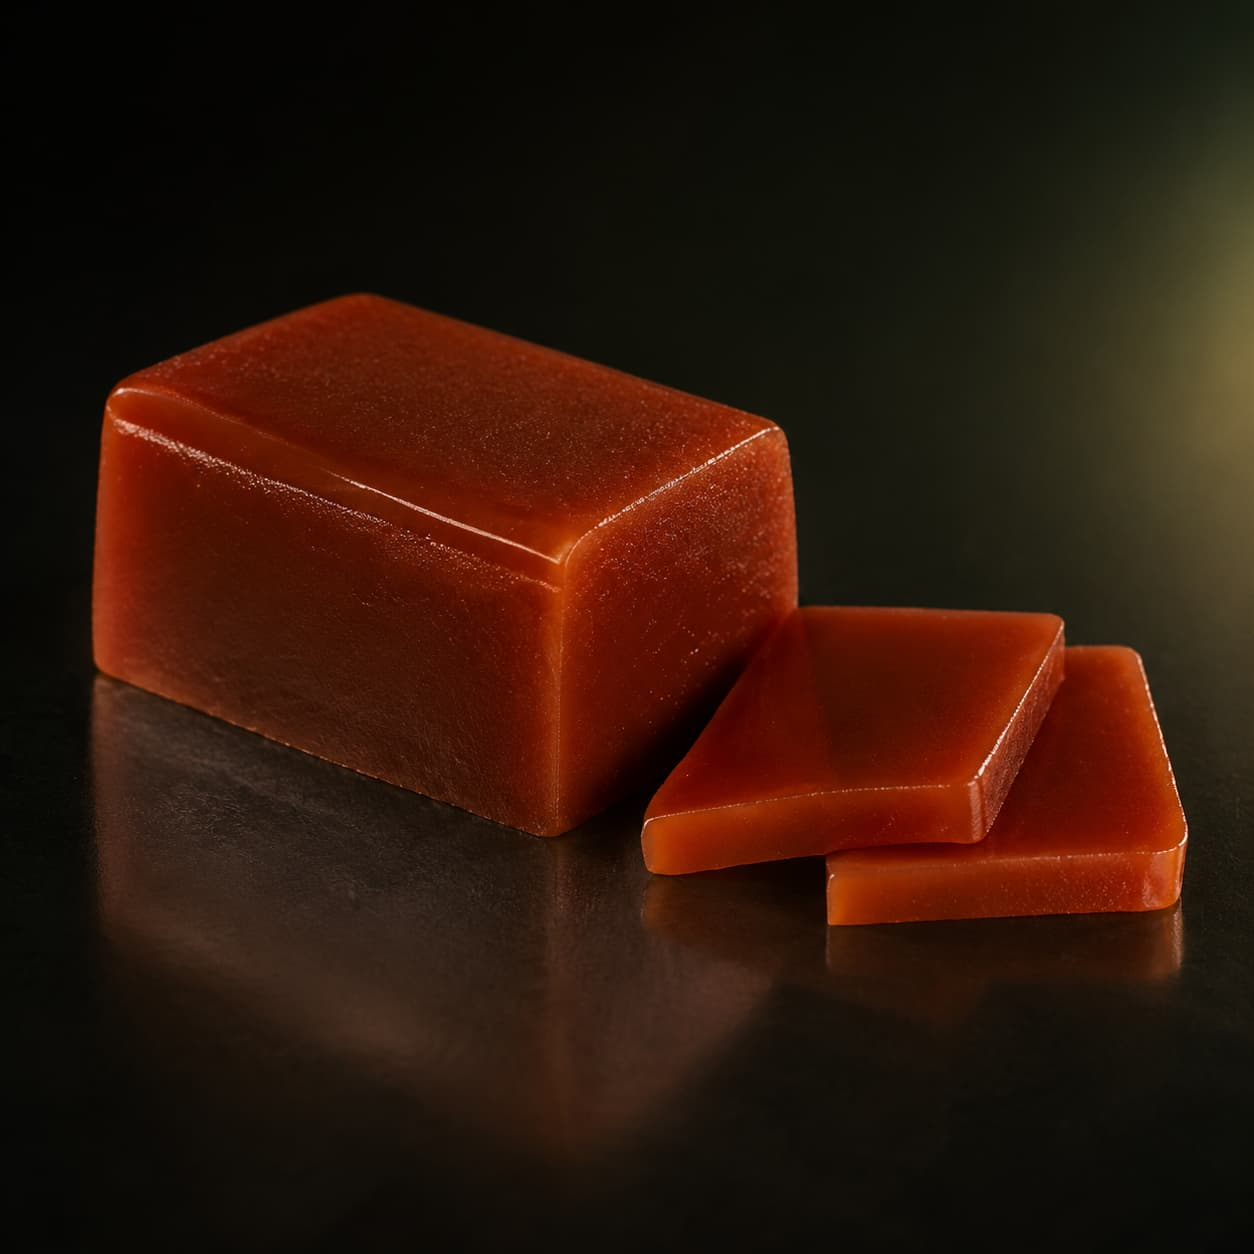
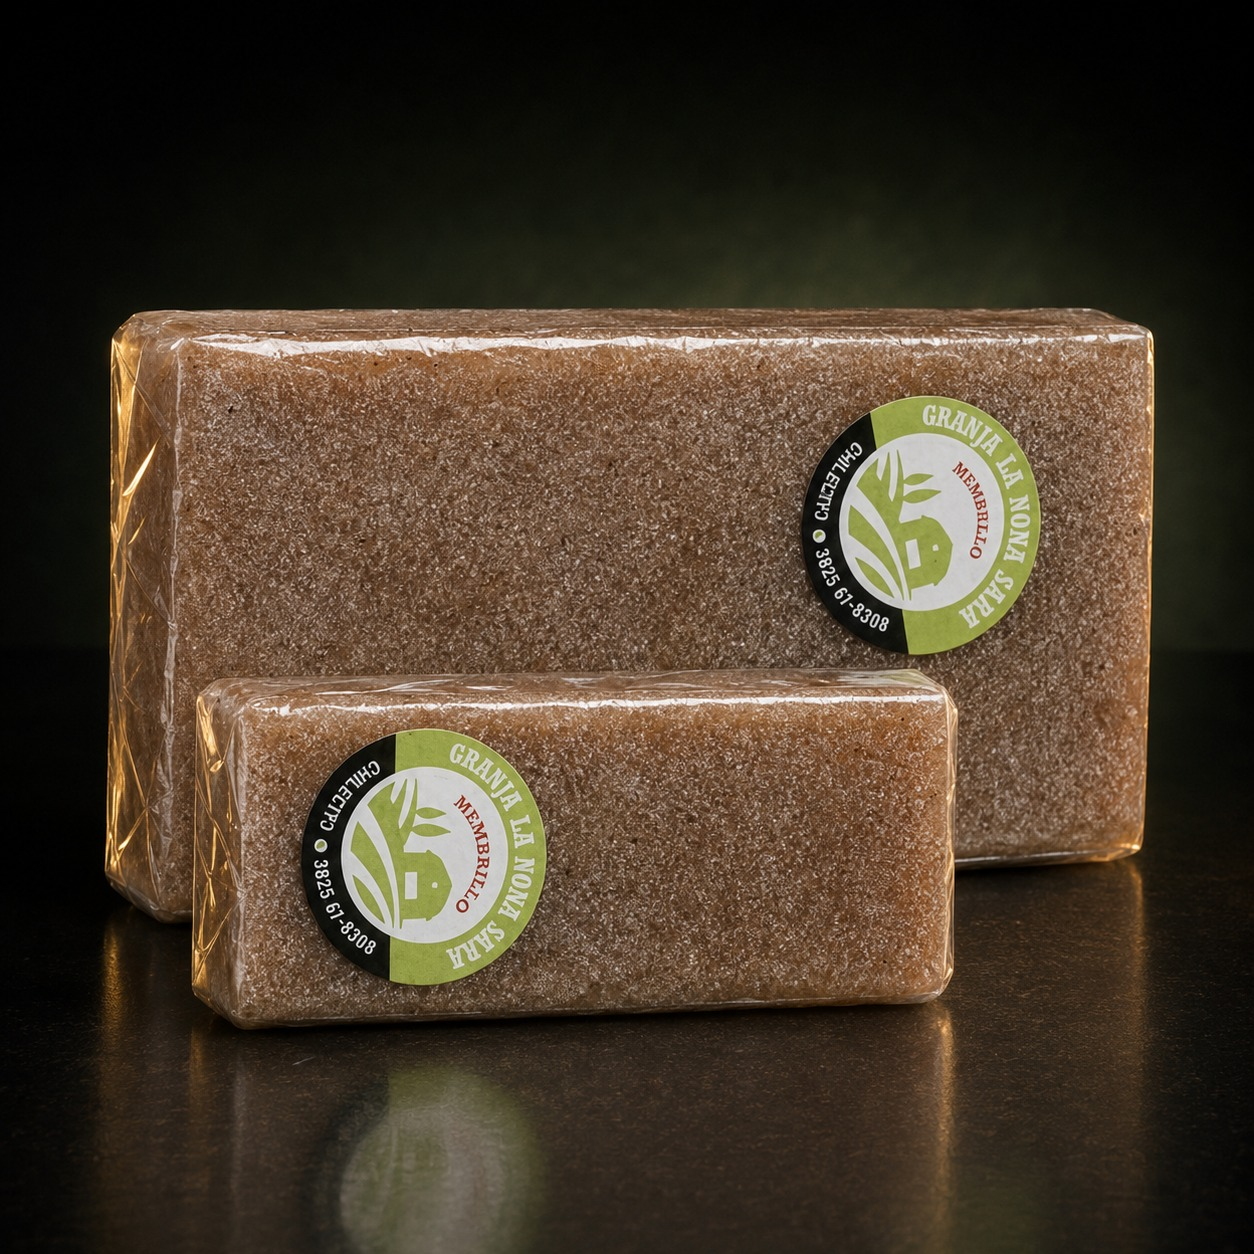
Add files via upload

diff --git a/index.html b/index.html
@@ -40,7 +40,19 @@
         .grid { display: grid; grid-template-columns: repeat(auto-fit, minmax(300px, 1fr)); gap: 40px; padding: 40px; max-width: 1200px; margin: auto; }
         .card { border: 1px solid var(--oro); background: var(--fondo-card); padding: 20px; text-align: center; border-radius: 4px; transition: 0.3s; }
         .card:hover { transform: translateY(-5px); border-color: #F5F5DC; }
-        .card img { width: 100%; height: 280px; object-fit: cover; border: 1px solid var(--oro); margin-bottom: 20px; }
+        .card img { width: 100%; height: 280px; object-fit: contain; background: #111; border: 1px solid var(--oro); margin-bottom: 20px; }
+        .campo-producto { text-align: left; margin: 12px 0; font-family: Arial, sans-serif; color: #F5F5DC; }
+        .campo-producto label { display: block; margin-bottom: 6px; color: var(--oro); font-weight: bold; font-size: 0.92em; }
+        .selector-variante,
+        .input-cantidad { width: 100%; padding: 10px; border: 1px solid var(--oro); border-radius: 4px; background: #111; color: #F5F5DC; font-size: 1rem; }
+        .cantidad-linea { display: flex; align-items: center; justify-content: center; gap: 10px; margin: 14px 0; font-family: Arial, sans-serif; color: var(--oro); font-weight: bold; }
+        .cantidad-control { display: inline-flex; align-items: center; border: 1px solid var(--oro); border-radius: 999px; overflow: hidden; background: #111; box-shadow: inset 0 0 0 1px rgba(197,160,89,0.12); }
+        .btn-cantidad { width: 34px; height: 34px; margin: 0; padding: 0; border: 0; border-radius: 0; background: #2D4837; color: var(--oro); font-size: 1.25rem; font-weight: bold; line-height: 1; cursor: pointer; }
+        .btn-cantidad:hover { background: var(--oro); color: #111; }
+        .input-cantidad { width: 42px; height: 34px; padding: 0; text-align: center; border: 0; border-left: 1px solid rgba(197,160,89,0.55); border-right: 1px solid rgba(197,160,89,0.55); border-radius: 0; background: #111; color: #F5F5DC; font-weight: bold; -moz-appearance: textfield; }
+        .input-cantidad::-webkit-outer-spin-button,
+        .input-cantidad::-webkit-inner-spin-button { -webkit-appearance: none; margin: 0; }
+        .precio-card { min-height: 32px; }
 
         .carrito { position: fixed; top: 12px; right: 12px; background: var(--oro); color: black; padding: 11px; border-radius: 8px; width: 240px; max-height: 68vh; overflow-y: auto; z-index: 1000; box-shadow: 0 4px 15px rgba(0,0,0,0.5); }
         .carrito h3 { margin: 2px 0 9px; font-size: 1.05em; }
@@ -56,7 +68,12 @@
         button { background: var(--verde); color: white; border: 1px solid #fff; padding: 10px; cursor: pointer; width: 100%; margin-top: 10px; }
         h2 { color: var(--oro); text-align: center; margin-top: 60px; }
         .desc-cat { text-align: center; color: #ccc; font-style: italic; margin-bottom: 20px; max-width: 800px; margin-left: auto; margin-right: auto; padding: 0 18px; }
-        .imagen-categoria { width: 100%; max-width: 800px; display: block; margin: auto; margin-bottom: 30px; border: 1px solid var(--oro); }
+        .categoria-bloque { margin: 58px 0 35px; border-top: 4px solid var(--oro); border-bottom: 4px solid var(--oro); background: #111; }
+        .categoria-titulo { padding: 22px 20px 18px; text-align: center; background: linear-gradient(180deg, #242018, #111); border-bottom: 1px solid rgba(197,160,89,0.65); }
+        .categoria-titulo h2 { margin: 0; color: var(--oro); font-size: 2.7em; text-transform: uppercase; letter-spacing: 2px; text-shadow: 2px 2px 8px rgba(0,0,0,0.9); }
+        .categoria-titulo .desc-cat { margin: 9px auto 0; color: #F5F5DC; text-shadow: none; }
+        .categoria-banner { width: 100%; height: clamp(260px, 28vw, 360px); background: #111; overflow: hidden; }
+        .categoria-banner img { display: block; width: 100%; height: 100%; object-fit: cover; object-position: center; margin: 0 auto; }
         footer { padding: 40px; text-align: center; border-top: 1px solid #444; background: #111; color: #ccc; }
         footer a { color: var(--oro); text-decoration: none; font-weight: bold; }
 
@@ -83,6 +100,11 @@
             .btn-modo { padding: 8px 10px; font-size: 0.78em; }
             .carrito { width: 210px; top: 8px; right: 8px; max-height: 55vh; }
             .grid { grid-template-columns: 1fr; padding: 25px 16px; gap: 25px; }
+            .categoria-bloque { margin: 42px 0 22px; }
+            .categoria-titulo { padding: 22px 14px 18px; }
+            .categoria-titulo h2 { font-size: 2em; }
+            .categoria-banner { height: 210px; }
+            .cantidad-linea { gap: 8px; }
         }
     </style>
 </head>
@@ -133,6 +155,7 @@
         const DESCUENTO_REVENDEDOR = 15;
         const AJUSTE_INFLACION = 0;
         const REDONDEO = 100;
+        const CATEGORIAS_SIN_AGRUPAR = ['Aceites'];
 
         const DATOS_CATEGORIA = {
             'Aceites': {
@@ -234,14 +257,21 @@
         }
 
         function renderizarCatalogo(productos) {
-            productosCatalogo = productos.map(producto => {
+            const filas = productos.map(producto => {
                 const precioBase = precioANumero(producto.Precio);
                 const precioRevendedor = calcularPrecioRevendedor(precioBase);
+                const noAgrupar = CATEGORIAS_SIN_AGRUPAR.includes(producto.Categoria) && !producto.Grupo;
+                const grupo = producto.Grupo || producto.Producto;
+                const claveGrupo = noAgrupar ? producto.Producto + ' · ' + producto.Presentacion : grupo;
+                const tituloTarjeta = noAgrupar ? producto.Producto : grupo;
 
                 return {
                     categoria: producto.Categoria,
+                    grupo: grupo,
+                    claveGrupo: claveGrupo,
+                    tituloTarjeta: tituloTarjeta,
                     producto: producto.Producto,
-                    presentacion: producto.Presentacion,
+                    presentacion: producto.Presentacion || 'Única opción',
                     precioOriginalTxt: formatearPrecio(precioBase),
                     precioOriginalNum: precioBase,
                     precioRevendedorTxt: formatearPrecio(precioRevendedor),
@@ -249,6 +279,25 @@
                     imagen: producto.Imagen || 'img/placeholder.jpg'
                 };
             });
+
+            const mapaProductos = new Map();
+            filas.forEach(item => {
+                const clave = item.categoria + '||' + item.claveGrupo;
+                if (!mapaProductos.has(clave)) {
+                    mapaProductos.set(clave, {
+                        categoria: item.categoria,
+                        producto: item.tituloTarjeta,
+                        imagen: item.imagen,
+                        variantes: []
+                    });
+                }
+
+                const grupo = mapaProductos.get(clave);
+                if (!grupo.imagen || grupo.imagen === 'img/placeholder.jpg') grupo.imagen = item.imagen;
+                grupo.variantes.push(item);
+            });
+
+            productosCatalogo = Array.from(mapaProductos.values());
 
             const productosPorCategoria = productosCatalogo.reduce((grupos, item, indice) => {
                 if (!grupos[item.categoria]) grupos[item.categoria] = [];
@@ -259,29 +308,101 @@
             const html = Object.entries(productosPorCategoria).map(([categoria, items]) => {
                 const datos = DATOS_CATEGORIA[categoria] || { descripcion: '', imagen: '' };
                 const encabezado = `
-                    <h2>${escaparHtml(categoria)}</h2>
-                    ${datos.descripcion ? `<p class="desc-cat">${escaparHtml(datos.descripcion)}</p>` : ''}
-                    ${datos.imagen ? `<img class="imagen-categoria" src="${escaparHtml(datos.imagen)}" alt="${escaparHtml(categoria)}">` : ''}
+                    <section class="categoria-bloque">
+                        <div class="categoria-titulo">
+                            <h2>${escaparHtml(categoria)}</h2>
+                            ${datos.descripcion ? `<p class="desc-cat">${escaparHtml(datos.descripcion)}</p>` : ''}
+                        </div>
+                        <div class="categoria-banner">
+                            <img src="${escaparHtml(datos.imagen || 'img/banner.jpg')}" alt="${escaparHtml(categoria)}">
+                        </div>
+                    </section>
                 `;
 
-                const tarjetas = items.map(item => `
+                const tarjetas = items.map(item => {
+                    const primeraVariante = item.variantes[0];
+                    const opciones = item.variantes.map((variante, varianteIndice) => `
+                        <option value="${varianteIndice}">
+                            ${escaparHtml(variante.presentacion)} · ${escaparHtml(variante.precioOriginalTxt)}
+                        </option>
+                    `).join('');
+
+                    const selector = item.variantes.length > 1
+                        ? `<div class="campo-producto">
+                               <label for="variante-${item.indice}">Elegí presentación</label>
+                               <select class="selector-variante" id="variante-${item.indice}" data-card="${item.indice}">
+                                   ${opciones}
+                               </select>
+                           </div>`
+                        : `<p>${escaparHtml(primeraVariante.presentacion)}</p>`;
+
+                    return `
                     <div class="card">
                         <img src="${escaparHtml(item.imagen)}" alt="${escaparHtml(item.producto)}">
                         <h3>${escaparHtml(item.producto)}</h3>
-                        <p>${escaparHtml(item.presentacion)}</p>
-                        <p>
-                            <strong class="precio-normal">${escaparHtml(item.precioOriginalTxt)}</strong>
-                            <span class="precio-anterior">${escaparHtml(item.precioOriginalTxt)}</span>
-                            <strong class="precio-revendedor">${escaparHtml(item.precioRevendedorTxt)}</strong>
+                        ${selector}
+                        <p class="precio-card" data-precio-card="${item.indice}">
+                            <strong class="precio-normal">${escaparHtml(primeraVariante.precioOriginalTxt)}</strong>
+                            <span class="precio-anterior">${escaparHtml(primeraVariante.precioOriginalTxt)}</span>
+                            <strong class="precio-revendedor">${escaparHtml(primeraVariante.precioRevendedorTxt)}</strong>
                         </p>
+                        <div class="cantidad-linea">
+                            <span>Cantidad</span>
+                            <div class="cantidad-control" aria-label="Elegir cantidad">
+                                <button class="btn-cantidad" type="button" data-restar="${item.indice}" aria-label="Restar cantidad">−</button>
+                                <input class="input-cantidad" id="cantidad-${item.indice}" data-cantidad="${item.indice}" type="number" min="1" step="1" value="1" aria-label="Cantidad">
+                                <button class="btn-cantidad" type="button" data-sumar="${item.indice}" aria-label="Sumar cantidad">+</button>
+                            </div>
+                        </div>
                         <button type="button" data-agregar="${item.indice}">Agregar</button>
                     </div>
-                `).join('');
+                `;
+                }).join('');
 
                 return `${encabezado}<div class="grid">${tarjetas}</div>`;
             }).join('');
 
             document.getElementById('catalogo').innerHTML = html;
+            actualizarPreciosTarjetas();
+        }
+
+        function obtenerVarianteSeleccionada(indiceProducto) {
+            const producto = productosCatalogo[indiceProducto];
+            if (!producto) return null;
+
+            const selector = document.querySelector('[data-card="' + indiceProducto + '"]');
+            const indiceVariante = selector ? Number(selector.value) : 0;
+            return producto.variantes[indiceVariante] || producto.variantes[0];
+        }
+
+        function obtenerCantidad(indiceProducto) {
+            const input = document.querySelector('[data-cantidad="' + indiceProducto + '"]');
+            const cantidad = parseInt(input?.value, 10);
+            return Number.isFinite(cantidad) && cantidad > 0 ? cantidad : 1;
+        }
+
+        function cambiarCantidad(indiceProducto, cambio) {
+            const input = document.querySelector('[data-cantidad="' + indiceProducto + '"]');
+            if (!input) return;
+
+            const actual = obtenerCantidad(indiceProducto);
+            input.value = Math.max(1, actual + cambio);
+        }
+
+        function actualizarPrecioTarjeta(indiceProducto) {
+            const variante = obtenerVarianteSeleccionada(indiceProducto);
+            const contenedor = document.querySelector('[data-precio-card="' + indiceProducto + '"]');
+            if (!variante || !contenedor) return;
+
+            contenedor.innerHTML = `
+                <strong class="precio-normal">${escaparHtml(variante.precioOriginalTxt)}</strong>
+                <span class="precio-anterior">${escaparHtml(variante.precioOriginalTxt)}</span>
+                <strong class="precio-revendedor">${escaparHtml(variante.precioRevendedorTxt)}</strong>
+            `;
+        }
+
+        function actualizarPreciosTarjetas() {
+            productosCatalogo.forEach((_, indice) => actualizarPrecioTarjeta(indice));
         }
 
         async function cargarCatalogo() {
@@ -329,6 +450,7 @@
             document.body.classList.add('modo-revendedor');
             document.getElementById('titulo-carrito').textContent = 'Pedido revendedor';
             carrito = [];
+            actualizarPreciosTarjetas();
             actualizar();
             ocultarAcceso();
         }
@@ -339,6 +461,7 @@
             document.body.classList.remove('modo-revendedor');
             document.getElementById('titulo-carrito').textContent = 'Mi Pedido';
             carrito = [];
+            actualizarPreciosTarjetas();
             actualizar();
         }
 
@@ -352,21 +475,52 @@
             }
         }
 
-        function agregarAlCarrito(prod, pres, precioTxt) {
+        function agregarAlCarrito(prod, pres, precioTxt, cantidad) {
             const precioNum = precioANumero(precioTxt);
-            carrito.push({ id: contador++, nombre: prod + ' (' + pres + ')', precioTxt: precioTxt, precioNum: precioNum });
+            const nombre = prod + ' (' + pres + ')';
+            const existente = carrito.find(item => item.nombre === nombre && item.precioTxt === precioTxt);
+
+            if (existente) {
+                existente.cantidad += cantidad;
+            } else {
+                carrito.push({ id: contador++, nombre: nombre, precioTxt: precioTxt, precioNum: precioNum, cantidad: cantidad });
+            }
+
             actualizar();
         }
 
         document.getElementById('catalogo').addEventListener('click', event => {
+            const sumar = event.target.closest('[data-sumar]');
+            if (sumar) {
+                cambiarCantidad(Number(sumar.dataset.sumar), 1);
+                return;
+            }
+
+            const restar = event.target.closest('[data-restar]');
+            if (restar) {
+                cambiarCantidad(Number(restar.dataset.restar), -1);
+                return;
+            }
+
             const boton = event.target.closest('[data-agregar]');
             if (!boton) return;
 
-            const producto = productosCatalogo[Number(boton.dataset.agregar)];
+            const indiceProducto = Number(boton.dataset.agregar);
+            const producto = productosCatalogo[indiceProducto];
             if (!producto) return;
 
-            const precio = modoRevendedor ? producto.precioRevendedorTxt : producto.precioOriginalTxt;
-            agregarAlCarrito(producto.producto, producto.presentacion, precio);
+            const variante = obtenerVarianteSeleccionada(indiceProducto);
+            const cantidad = obtenerCantidad(indiceProducto);
+            if (!variante) return;
+
+            const precio = modoRevendedor ? variante.precioRevendedorTxt : variante.precioOriginalTxt;
+            agregarAlCarrito(producto.producto, variante.presentacion, precio, cantidad);
+        });
+
+        document.getElementById('catalogo').addEventListener('change', event => {
+            const selector = event.target.closest('[data-card]');
+            if (!selector) return;
+            actualizarPrecioTarjeta(Number(selector.dataset.card));
         });
 
         function eliminar(id) {
@@ -380,8 +534,9 @@
             let total = 0;
 
             carrito.forEach(item => {
-                total += item.precioNum;
-                lista.innerHTML += '<li><span class="nombre-item">' + escaparHtml(item.nombre) + ' - ' + escaparHtml(item.precioTxt) +
+                const subtotal = item.precioNum * item.cantidad;
+                total += subtotal;
+                lista.innerHTML += '<li><span class="nombre-item">' + item.cantidad + ' x ' + escaparHtml(item.nombre) + ' - ' + escaparHtml(formatearPrecio(subtotal)) +
                 '</span><button class="btn-eliminar" title="Quitar producto" aria-label="Quitar producto" onclick="eliminar(' + item.id + ')">&#128465;</button></li>';
             });
 
@@ -390,7 +545,7 @@
 
         function enviarWhatsApp() {
             const tipoPedido = modoRevendedor ? 'PEDIDO DE REVENDEDOR (' + DESCUENTO_REVENDEDOR + '% OFF)' : 'PEDIDO';
-            const detalle = carrito.map(i => '- ' + i.nombre + ' - ' + i.precioTxt).join('%0A');
+            const detalle = carrito.map(i => '- ' + i.cantidad + ' x ' + i.nombre + ' - unitario ' + i.precioTxt + ' - subtotal ' + formatearPrecio(i.precioNum * i.cantidad)).join('%0A');
             const total = document.getElementById('total-carrito').innerText.split('$')[1] || '0';
             const msg = 'Hola José, quiero hacer un ' + tipoPedido + ':%0A%0A' + detalle + '%0A%0A*TOTAL: $' + total + '*';
             window.open('https://wa.me/5493804559043?text=' + msg, '_blank');

diff --git a/README.md b/README.md
@@ -8,8 +8,33 @@ Catálogo web de productos regionales de La Rioja.
 - Carrito de compras.
 - Cálculo automático del total.
 - Envío del pedido por WhatsApp.
+- Compra normal y acceso para revendedores en el mismo link.
+- Variantes por producto con desplegable de presentación/precio.
+- Selector de cantidad para todos los productos.
 - Acceso directo a Instagram.
 - Diseño adaptable a celulares y computadoras.
+
+## Cómo cargar variantes
+
+El catálogo lee `productos.csv`.
+
+Si varias filas tienen la misma `Categoria` y el mismo `Producto`, el sitio las muestra como una sola tarjeta con un desplegable.
+
+Excepción actual: la categoría `Aceites` no se agrupa. Cada aceite queda como tarjeta separada porque cada envase tiene su propia foto/presentación visual.
+
+Ejemplo:
+
+```csv
+Categoria,Producto,Presentacion,Precio,Imagen
+Dulces y Varios,Dulce de membrillo (Pan),650grs,$7.000,img/dulce_membrillo_650.jpg
+Dulces y Varios,Dulce de membrillo (Pan),270grs,$3.500,img/dulce_membrillo_650.jpg
+```
+
+En ese caso se ve una sola tarjeta "Dulce de membrillo (Pan)" y la persona elige 650grs o 270grs.
+
+Si querés usar una sola foto para todas las variantes, poné la misma imagen en esas filas.
+
+También se puede agregar una columna opcional llamada `Grupo` si querés forzar que varias filas se agrupen bajo otro nombre.
 
 ## Ver el catálogo
 